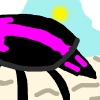
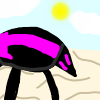
Fixed Issue (accidentally swapped x and y coords), other misc work

diff --git a/src/Menus/GameBoard.java b/src/Menus/GameBoard.java
@@ -62,10 +62,9 @@ public class GameBoard {
                     int[] coords = {x,y};
                     MainGameLogic.SelectLoc(coords);
                     selectLoc = coords;
-                    System.out.print(MainGameLogic.getBoardStateatLoc(coords).getPortraitPath());
+                    //System.out.print(MainGameLogic.getBoardStateatLoc(selectLoc).getTilePath());
                     try {
-                        Image prev2Img = new Image(new FileInputStream(MainGameLogic.getBoardStateatLoc(selectLoc).getPortraitPath()));
-                        previewImage.setImage(prev2Img);
+                        previewImage.setImage(new Image(new FileInputStream(MainGameLogic.getBoardStateatLoc(MainGameLogic.getSelectedLoc()).getPortraitPath())));
                     } catch (FileNotFoundException e) {
                         System.out.println("Warning: Image Portrait File Missing");
                     }
@@ -73,12 +72,13 @@ public class GameBoard {
                         for(int b = 0; b < 20; b ++){
                             try {
                                 
-                                ((Button)mapGrid.getChildren().get(a + (b * 20))).setGraphic(new ImageView(new Image(new FileInputStream(MainGameLogic.getBoardStateatLoc(new int[] {a , b}).getTilePath()))));
+                                ((Button)mapGrid.getChildren().get(a + (b * 20))).setGraphic(new ImageView(new Image(new FileInputStream(MainGameLogic.getBoardStateatLoc(new int[] {b , a}).getTilePath()))));
                             } catch (FileNotFoundException e) {
                                 System.out.println("Warning: Tile Image Missing");
-                            };
+                            }
                         }
                     }
+                    textOutput.setText(MainGameLogic.getStatus());
                 }
                 
             });
@@ -113,7 +113,7 @@ public class GameBoard {
                 Button close = new Button("Close");
                 VBox infoBox = new VBox();
 
-                Label descript = new Label(MainGameLogic.getBoardStateatLoc(MainGameLogic.getSelectedLoc()).getDesc().toString());
+                Label descript = new Label(MainGameLogic.getBoardStateatLoc(MainGameLogic.getSelectedLoc()).getDesc());
                 descript.setWrapText(true);
 
             TitledPane desc = new TitledPane("Description", descript);

diff --git a/src/GameMechanics/MainGameLogic.java b/src/GameMechanics/MainGameLogic.java
@@ -36,8 +36,9 @@ public class MainGameLogic {
                 boardState[i][j] = new Entity();
             }
         }
+
         int[] temp = {0,3};
-        boardState[1][3] = new Entity(temp);
+        boardState[3][1] = new Entity(temp);
     }
     
 
@@ -63,6 +64,7 @@ public class MainGameLogic {
         if(selectMode == 0){
             selectedLoc = coords;
         }
+        selectedLoc = coords;
     }
 
     public static int[] getSelectedLoc(){
@@ -70,5 +72,18 @@ public class MainGameLogic {
     }
     public static Entity getBoardStateatLoc(int[] coords){
         return(boardState[coords[0]][coords[1]]);
+    }
+
+    public static String getStatus() {
+        if(selectMode == 0){
+            if(turn == 1){
+                return("Player 1 Turn");
+            }else if(turn == 2){
+                return("Player 2 Turn");
+            }else if(turn == 0){
+                return("Press Start Turn to Continue");
+            }
+        }
+        return("This Message Should Not Appear");
     }
 }

diff --git a/src/GameMechanics/Entity.java b/src/GameMechanics/Entity.java
@@ -6,6 +6,7 @@ public class Entity {
      private int team = 0;
      private int health = 0;
      private int speed = 0;
+     private int movesMade = 0;
      private int sightRange = 0;
      private int damage = 0;
      private int attkRange = 0;
@@ -100,6 +101,12 @@ public class Entity {
           }else{
                return("An unseen area, you do not know what is here.");
           }
+     }
+     public int getMovesRemaining(){
+          return(speed - movesMade);
+     }
+     public boolean getIsEmpty(){
+          return(empty);
      }
      public void takeDamage(int damageNum){
           health -= damageNum;
